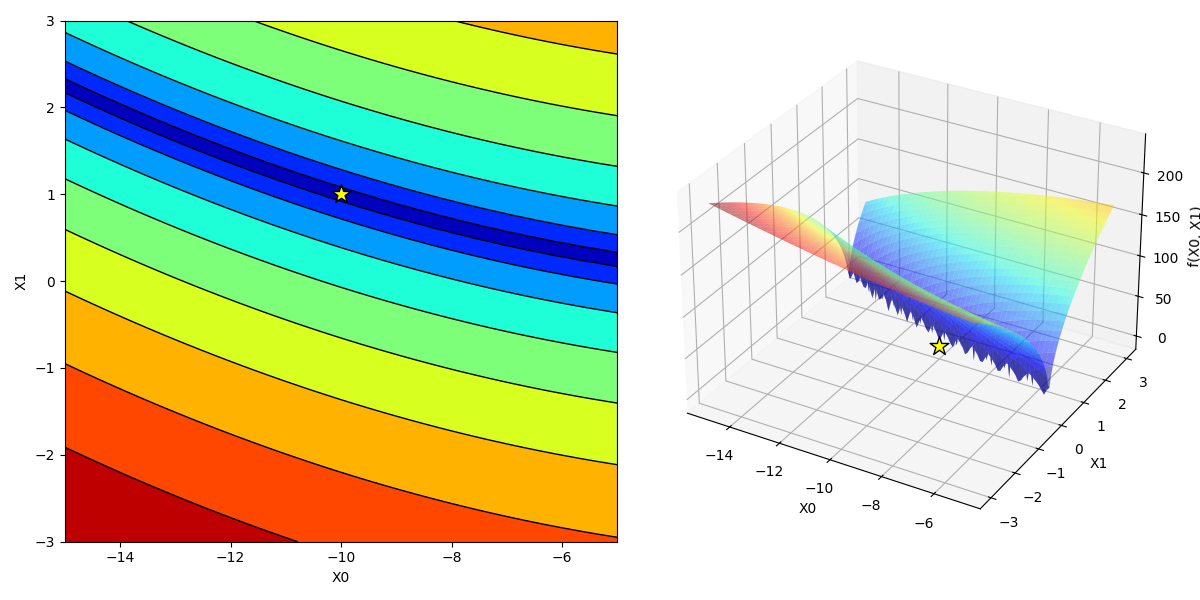
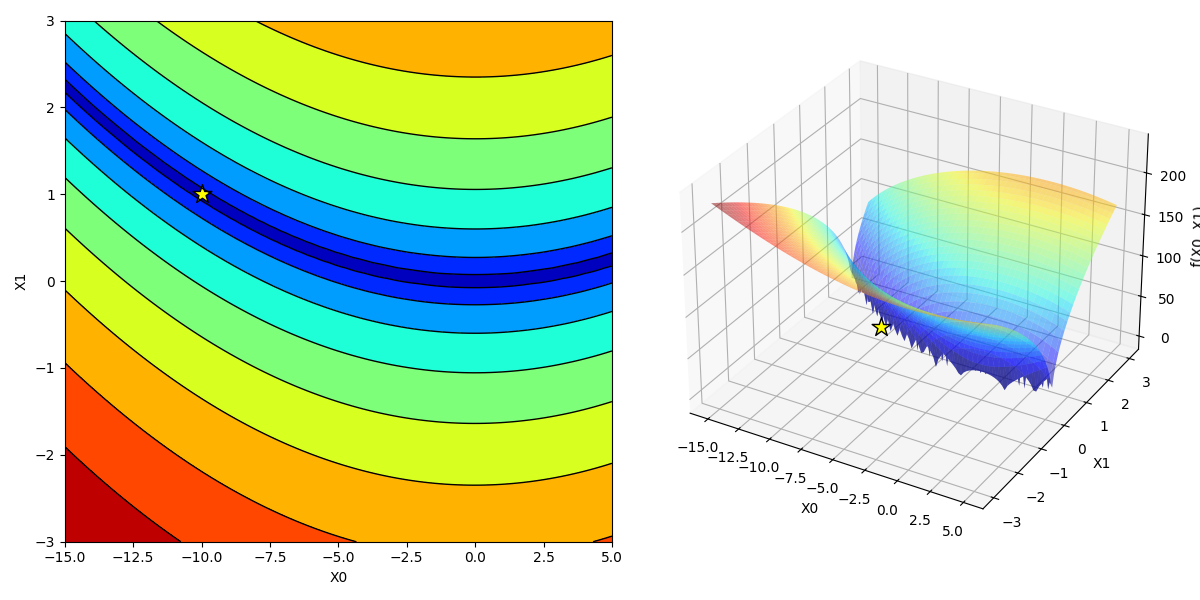
Updaed Bukin 6 image

diff --git a/src/objective_functions/subclasses/ackley.py b/src/objective_functions/subclasses/ackley.py
@@ -6,7 +6,7 @@ import numpy as np
 from .. import objective_function as of
 from ..default_settings import DefaultSettings
 
-DEFAULT_PARAMETERS = {'a': 10, 'b': 0.2, 'c': 2 * np.pi}
+DEFAULT_PARAMETERS = {'A': 10, 'B': 0.2, 'C': 2 * np.pi}
 
 DEFAULT_SETTINGS = DefaultSettings(dimensionality = 2, 
                                    optimal_solution = 0.0, 
@@ -40,9 +40,9 @@ class Ackley(of.ObjectiveFunction):
         
         n = len(position)
         
-        A = self.parameters['a']
-        B = self.parameters['b']
-        C = self.parameters['c']
+        A = self.parameters['A']
+        B = self.parameters['B']
+        C = self.parameters['C']
         
         term1 = -A * np.exp(-B * np.sqrt(np.sum(position**2) / n))
         term2 = -np.exp(np.sum(np.cos(C * position)) / n)

diff --git a/src/objective_functions/subclasses/bukin6.py b/src/objective_functions/subclasses/bukin6.py
@@ -9,7 +9,7 @@ from ..default_settings import DefaultSettings
 DEFAULT_SETTINGS = DefaultSettings(dimensionality = 2, 
                                    optimal_solution = 0.0, 
                                    optimal_solution_position = np.array([-10, 1]), 
-                                   search_space_bounds = np.array([(-15, -5), (-3, 3)]))
+                                   search_space_bounds = np.array([(-15, 5), (-3, 3)]))
 
 
 class Bukin6(of.ObjectiveFunction):
